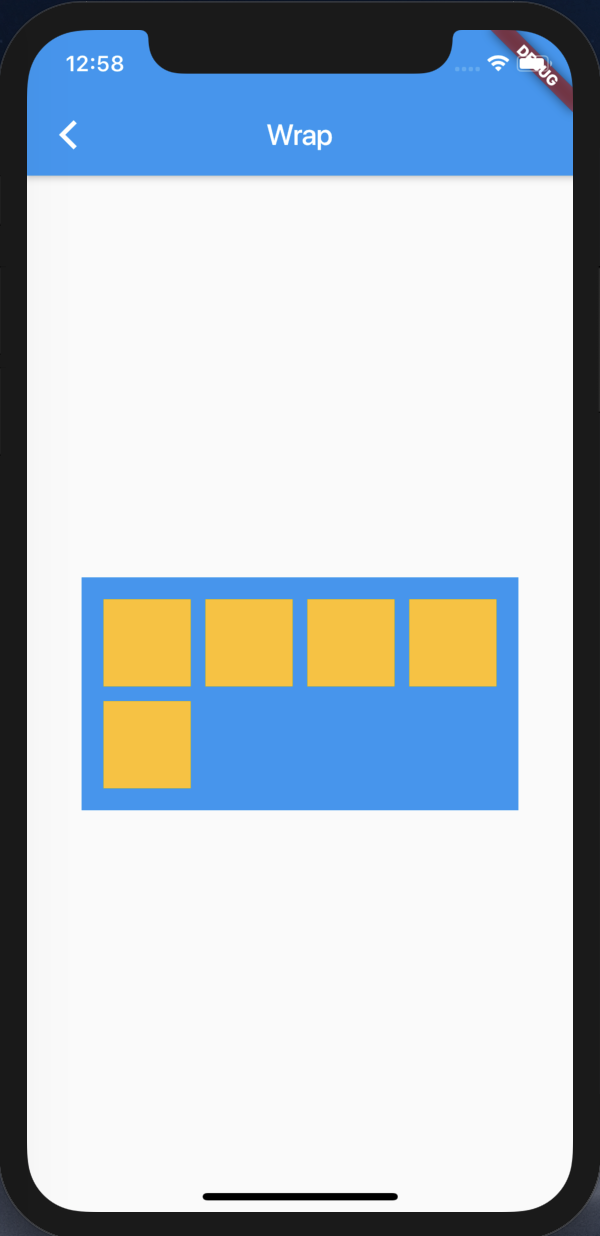
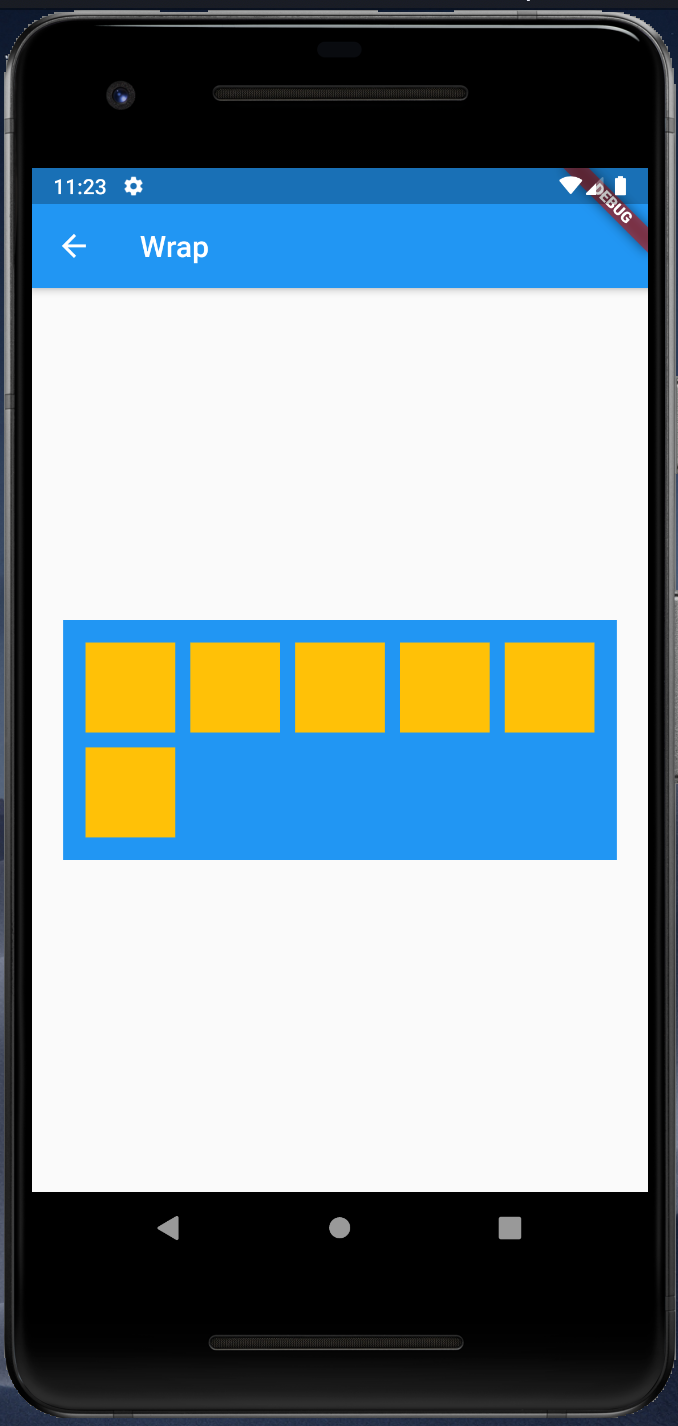
[Wrap] Add DirectionPage and Alignment_SpacingPage

diff --git a/wrap/lib/main.dart b/wrap/lib/main.dart
@@ -11,6 +11,8 @@ class MyApp extends StatelessWidget {
         '/': (BuildContext context) => MyHomePage(),
         '/page1': (BuildContext context) => Page1(),
         '/page2': (BuildContext context) => Page2(),
+        '/page3': (BuildContext context) => Page3(),
+        '/page4': (BuildContext context) => Page4(),
         '/sample1': (BuildContext context) => Sample1(),
       },
     );
@@ -29,6 +31,8 @@ class MyHomePage extends StatelessWidget {
           children: <Widget>[
             _buildList(context, 'Not Wrap', '/page1'),
             _buildList(context, 'Wrap', '/page2'),
+            _buildList(context, 'Set the direction property', '/page3'),
+            _buildList(context, 'Alignment / spacing / runSpacing', '/page4'),
             _buildList(context, 'Sample1', '/sample1'),
           ],
         ),
@@ -58,13 +62,13 @@ class Page1 extends StatelessWidget {
       ),
       body: Center(
         child: Container(
-          margin: EdgeInsets.symmetric(horizontal: 20.0),
           padding: EdgeInsets.all(10.0),
           color: Colors.blue,
           child: Row(
             mainAxisSize: MainAxisSize.max,
             mainAxisAlignment: MainAxisAlignment.center,
             children: [
+              _buildContainer(),
               _buildContainer(),
               _buildContainer(),
               _buildContainer(),
@@ -96,11 +100,11 @@ class Page2 extends StatelessWidget {
       ),
       body: Center(
         child: Container(
-          margin: EdgeInsets.symmetric(horizontal: 20.0),
           padding: EdgeInsets.all(10.0),
           color: Colors.blue,
           child: Wrap(
             children: [
+              _buildContainer(),
               _buildContainer(),
               _buildContainer(),
               _buildContainer(),
@@ -116,6 +120,84 @@ class Page2 extends StatelessWidget {
   Widget _buildContainer() {
     return Container(
       margin: EdgeInsets.all(5.0),
+      color: Colors.amber,
+      height: 60.0,
+      width: 60.0,
+    );
+  }
+}
+
+class Page3 extends StatelessWidget {
+  @override
+  Widget build(BuildContext context) {
+    return Scaffold(
+      appBar: AppBar(
+        title: Text('Direction'),
+      ),
+      body: Center(
+        child: Container(
+          padding: EdgeInsets.all(10.0),
+          color: Colors.blue,
+          child: Wrap(
+            direction: Axis.vertical,
+            children: [
+              _buildContainer(),
+              _buildContainer(),
+              _buildContainer(),
+              _buildContainer(),
+              _buildContainer(),
+              _buildContainer(),
+              _buildContainer(),
+              _buildContainer(),
+              _buildContainer(),
+            ],
+          ),
+        ),
+      ),
+    );
+  }
+
+  Widget _buildContainer() {
+    return Container(
+      margin: EdgeInsets.all(5.0),
+      color: Colors.amber,
+      height: 60.0,
+      width: 60.0,
+    );
+  }
+}
+
+class Page4 extends StatelessWidget {
+  @override
+  Widget build(BuildContext context) {
+    return Scaffold(
+      appBar: AppBar(
+        title: Text('Alignment / spacing / runSpacing'),
+      ),
+      body: Center(
+        child: Container(
+          padding: EdgeInsets.all(10.0),
+          color: Colors.blue,
+          child: Wrap(
+            alignment: WrapAlignment.end,
+            spacing: 10.0,
+            runSpacing: 20.0,
+            children: [
+              _buildContainer(),
+              _buildContainer(),
+              _buildContainer(),
+              _buildContainer(),
+              _buildContainer(),
+              _buildContainer(),
+            ],
+          ),
+        ),
+      ),
+    );
+  }
+
+  Widget _buildContainer() {
+    return Container(
       color: Colors.amber,
       height: 60.0,
       width: 60.0,

diff --git a/wrap/README.md b/wrap/README.md
@@ -11,5 +11,9 @@ Menu
 | - | - |
 |<img src="./screenshots/NotWrap.png" height="400" alt="Screenshot"/>|<img src="./screenshots/Wrap.png" height="400" alt="Screenshot"/>|
 
+|Direction|Alignment_Spacing_runSpasing|
+| - | - |
+|<img src="./screenshots/Direction.png" height="400" alt="Screenshot"/>|<img src="./screenshots/Alignment_Spacing_runSpasing.png" height="400" alt="Screenshot"/>|
+
 Sample1  
 <img src="./screenshots/Sample1.png" height="400" alt="Screenshot"/>
